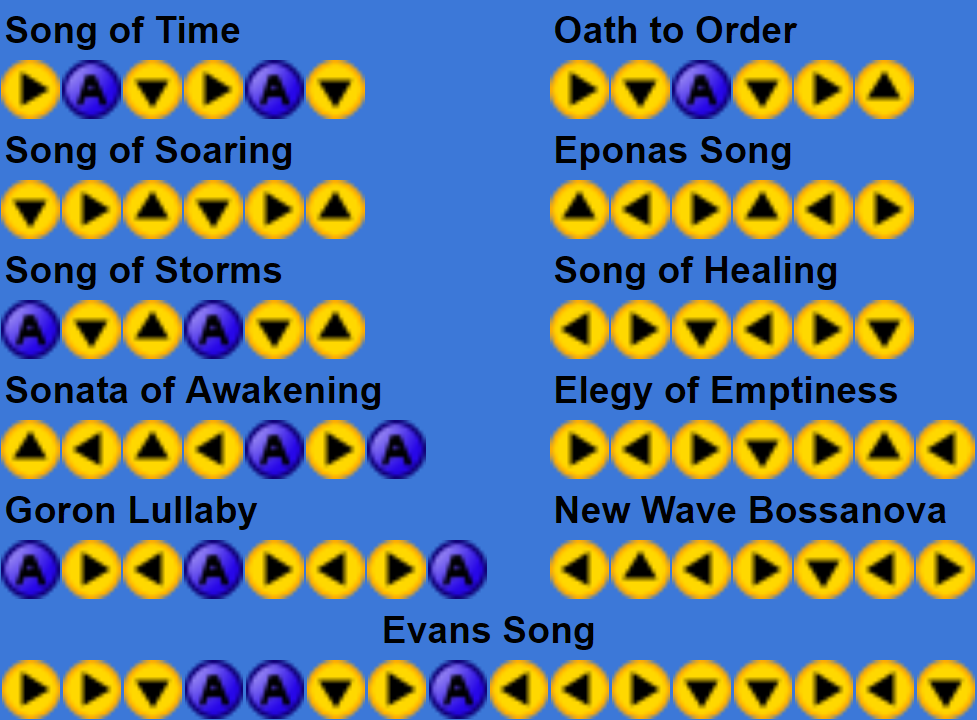
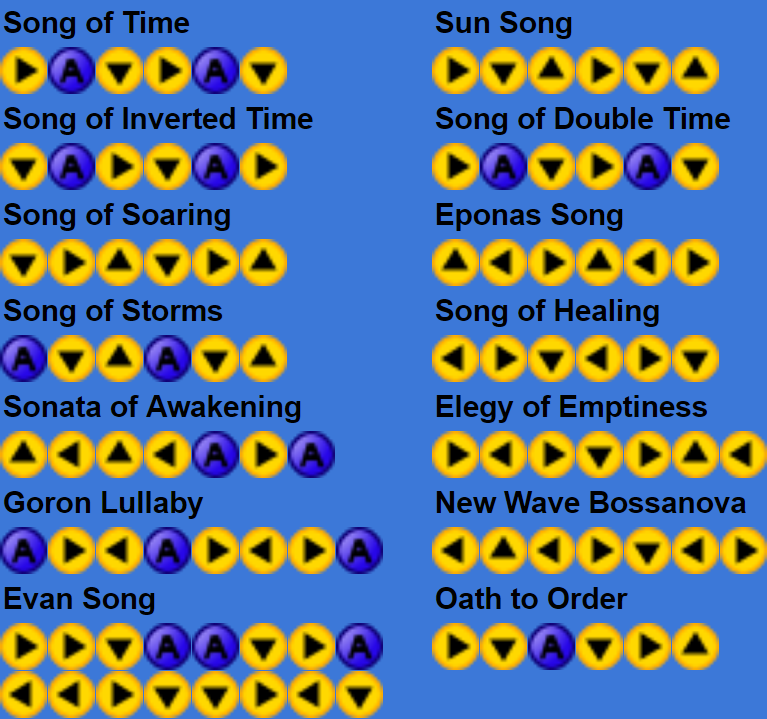
The pathfinder will now skip the pathfinding process if the destination is in the same area as the exit.
Fixed the printing of paths to properly display when song of time is being used.

Exits from majoras lair will now be ignored. There are no actual exits from majora but logic uses it to mark inaccessabel areas.

Updated the song list to include Sun Song as well as the two song of time variations.

diff --git a/Forms/PathFinder.cs b/Forms/PathFinder.cs
@@ -36,16 +36,17 @@ namespace MMR_Tracker.Forms
             if (Startindex < 0 || DestIndex < 0) { return; }
             LBPathFinder.Items.Add("Finding Path.....");
             LBPathFinder.Items.Add("Please Wait");
-            LBPathFinder.Items.Add("");
-            LBPathFinder.Items.Add("This could take up to 20");
-            LBPathFinder.Items.Add("seconds depending on how");
-            LBPathFinder.Items.Add("complete your map is and");
-            LBPathFinder.Items.Add("the speed of your PC!");
             LBPathFinder.Refresh();
 
-            await Task.Run(() => PathFinder.calculatepath(Startindex, DestIndex, partition));
+            bool DestinationAtStarting = await Task.Run(() => PathFinder.Calculatepath(Startindex, DestIndex, partition));
 
             LBPathFinder.Items.Clear();
+
+            if (DestinationAtStarting)
+            {
+                foreach (var i in Utility.SeperateStringByMeasurement(LBPathFinder, "Your destination is available from your starting area.", "")) { LBPathFinder.Items.Add(i); }
+                return;
+            }
 
             if (PathFinder.paths.Count == 0)
             {
@@ -68,14 +69,18 @@ namespace MMR_Tracker.Forms
             PrintPaths(-1, partition);
         }
 
-        public static void calculatepath(int Startindex, int DestIndex, int PathPartition)
+        public static bool Calculatepath(int Startindex, int DestIndex, int PathPartition)
         {
             var startinglocation = LogicObjects.MainTrackerInstance.Logic[Startindex];
             var destination = LogicObjects.MainTrackerInstance.Logic[DestIndex];
             var maps = FindLogicalEntranceConnections(LogicObjects.MainTrackerInstance, startinglocation);
             var Fullmap = maps[0]; //A map of all available exit from each entrance
             var ResultMap = maps[1]; //A map of all available entrances from each exit as long as the result of that entrance is known
+
+            if (Fullmap.Find(x => x.CurrentExit == startinglocation.ID && x.EntranceToTake == destination.ID) != null) { return true; }
+
             Findpath(LogicObjects.MainTrackerInstance, ResultMap, Fullmap, startinglocation.ID, destination.ID, new List<int>(), new List<int>(), new List<LogicObjects.MapPoint>(), PathPartition, true);
+            return false;
         }
 
         private void CMBStart_DropDown(object sender, EventArgs e)
@@ -157,22 +162,33 @@ namespace MMR_Tracker.Forms
         private void PrintPaths(int PathToPrint, int partition)
         {
             LBPathFinder.Items.Clear();
-            var sortedpaths = paths[partition].OrderBy(x => x.Count);
+            var sortedpaths = PathFinder.paths[partition].OrderBy(x => x.Count);
 
-            if (PathToPrint == -1 || paths[partition].ElementAtOrDefault(PathToPrint) == null)
+            if (PathToPrint == -1 || PathFinder.paths[partition].ElementAtOrDefault(PathToPrint) == null)
             {
                 int counter = 1;
                 foreach (var path in sortedpaths)
                 {
-                    LBPathFinder.Items.Add(new LogicObjects.ListItem { DisplayName = "Path: " + counter + " (" + path.Count + " Steps)", ID = counter - 1 , Identifier = partition });
+                    var ListTitle = new LogicObjects.ListItem { DisplayName = "Path: " + counter + " (" + path.Count + " Steps)", ID = counter - 1, Identifier = partition };
+                    LBPathFinder.Items.Add(ListTitle);
                     var firstStop = true;
                     foreach (var stop in path)
                     {
-                        var start = (firstStop) ? SetSOTName(LogicObjects.MainTrackerInstance, stop) : LogicObjects.MainTrackerInstance.Logic[stop.EntranceToTake].LocationName;
-                        var ListItem = new LogicObjects.ListItem { DisplayName = start + " => " + LogicObjects.MainTrackerInstance.Logic[stop.ResultingExit].ItemName, ID = counter - 1, Identifier = partition };
+                        var start = (firstStop) ? PathFinder.SetSOTName(LogicObjects.MainTrackerInstance, stop) : LogicObjects.MainTrackerInstance.Logic[stop.EntranceToTake].LocationName;
+                        var ListItem = new LogicObjects.ListItem
+                        {
+                            DisplayName = start + " => " + LogicObjects.MainTrackerInstance.Logic[stop.ResultingExit].ItemName,
+                            ID = counter - 1,
+                            Identifier = partition
+                        };
                         LBPathFinder.Items.Add(ListItem); firstStop = false;
                     }
-                    LBPathFinder.Items.Add(new LogicObjects.ListItem { DisplayName = "===============================", ID = counter - 1, Identifier = partition });
+                    LBPathFinder.Items.Add(new LogicObjects.ListItem
+                    {
+                        DisplayName = "===============================",
+                        ID = counter - 1,
+                        Identifier = partition
+                    });
                     counter++;
                 }
             }
@@ -181,21 +197,25 @@ namespace MMR_Tracker.Forms
                 var path = sortedpaths.ToArray()[PathToPrint];
                 var ListTitle = new LogicObjects.ListItem { DisplayName = "Path: " + (PathToPrint + 1) + " (" + path.Count + " Steps)", ID = -1, Identifier = partition };
                 LBPathFinder.Items.Add(ListTitle);
+                var firstStop = true;
                 foreach (var stop in path)
                 {
-                    var ThisIsStupid = new LogicObjects.ListItem
+                    var start = (firstStop) ? PathFinder.SetSOTName(LogicObjects.MainTrackerInstance, stop) : LogicObjects.MainTrackerInstance.Logic[stop.EntranceToTake].LocationName;
+                    var ListItem = new LogicObjects.ListItem
                     {
-                        DisplayName =
-                        ((LogicObjects.MainTrackerInstance.Logic[stop.EntranceToTake].DictionaryName == "EntranceSouthClockTownFromClockTowerInterior") ?
-                            "Song of Time" :
-                            LogicObjects.MainTrackerInstance.Logic[stop.EntranceToTake].LocationName
-                        ) + " => " + LogicObjects.MainTrackerInstance.Logic[stop.ResultingExit].ItemName,
+                        DisplayName = start + " => " + LogicObjects.MainTrackerInstance.Logic[stop.ResultingExit].ItemName,
                         ID = -1,
                         Identifier = partition
                     };
-                    LBPathFinder.Items.Add(ThisIsStupid);
+                    LBPathFinder.Items.Add(ListItem);
+                    firstStop = false;
                 }
-                LBPathFinder.Items.Add("===============================");
+                LBPathFinder.Items.Add(new LogicObjects.ListItem
+                {
+                    DisplayName = "===============================",
+                    ID = -1,
+                    Identifier = partition
+                });
             }
         }
 
@@ -239,6 +259,8 @@ namespace MMR_Tracker.Forms
             foreach (LogicObjects.LogicEntry entry in Instance.Logic.Where(x => x.RandomizedItem > -1 && x.IsEntrance() && x.Checked))
             {
                 var ExitToCheck = logicTemplate.Logic[entry.RandomizedItem];
+                //There are no valid exits from majoras lair. Logic uses it to make sure innaccessable exits don't lock something needed to beat the game.
+                if (ExitToCheck.DictionaryName == "EntranceMajorasLairFromTheMoon") { continue; }
                 ExitToCheck.Aquired = true;
                 LogicEditing.CalculateItems(logicTemplate);
                 foreach (var dummyEntry in logicTemplate.Logic.Where(x => EntranceConnectionValid(x, ExitToCheck, logicTemplate)))
@@ -274,45 +296,41 @@ namespace MMR_Tracker.Forms
             return (x.Available && !x.IsFake && !x.IsWarpSong() && (x.IsEntrance() || lt.Options.IncludeItemLocations) && NotSOT(lt, ExitToCheck, x));
         }
 
-        public static void Findpath(LogicObjects.TrackerInstance Instance, List<LogicObjects.MapPoint> map, List<LogicObjects.MapPoint> FullMap, int startinglocation, int destination, List<int> ExitsSeen, List<int> ExitsSeenOriginal, List<LogicObjects.MapPoint> Path, int PathPartition, bool InitialRun = false)
+        public static void Findpath(LogicObjects.TrackerInstance Instance, List<LogicObjects.MapPoint> map, List<LogicObjects.MapPoint> FullMap, int startinglocation, int destination, List<int> ExitsKnown, List<int> ExitsVisited, List<LogicObjects.MapPoint> Path, int PathPartition, bool InitialRun = false)
         {
             #region
             //map               :A map of all available entrances from each exit as long as the result of that entrance is known
             //FullMap           :A map of all available exit from each entrance
             //startinglocation  :The ID of the last exit you came from
             //destination       :The ID of the entrance you want to reach
-            //ExitsSeen         :The IDs of each entrance you have seen in the current area as well as all surrounding areas
-            //ExitsSeenOriginal :The same as exits seen but does not conatain entrance found during this execution of the function through the CheckExitValid fucntion
+            //ExitsKnown        :The IDs of each entrance we've seen from areas we've been to and areas we've scanned using the NewExitsInResultingArea function
+            //ExitsSeenOriginal :The IDs of each entrance we've seen from area we have actually been to or could have been to earlier in the path
             //Path              :A list of exits you have taken to get to your current point
             //PathPartition     :The index of the global paths variable where this path will be stored
             //InitialRun        :Is this code being run from the original source (True) or from it's self (False)
             #endregion
             if (InitialRun) { paths[PathPartition] = new List<List<LogicObjects.MapPoint>>(); }
-            //There are no available exits from majoras lair, this however is used to lock inaccesable exits
-            if (Instance.Logic[startinglocation].DictionaryName == "EntranceMajorasLairFromTheMoon") { return; }
             //Make a copy to edit and pass to the next funtion
-            var ExitsSeenCopy = JsonConvert.DeserializeObject<List<int>>(JsonConvert.SerializeObject(ExitsSeen));
-            //The path finder will use this to ignore seen entrances in areas with new entrances and seen entrances
-            var ExitsSeenOriginalCopy = JsonConvert.DeserializeObject<List<int>>(JsonConvert.SerializeObject(ExitsSeen));
+            var ExitsKnownCopy = JsonConvert.DeserializeObject<List<int>>(JsonConvert.SerializeObject(ExitsKnown));
+            var ExitsVisitedCopy = JsonConvert.DeserializeObject<List<int>>(JsonConvert.SerializeObject(ExitsKnown));
             //A list of exits available to take
             var validExits = new List<LogicObjects.MapPoint>();
 
             //If we can reach our destination from this point, add the path we took to get here to the valid paths list.
             if (FullMap.Find(x => x.CurrentExit == startinglocation && x.EntranceToTake == destination) != null) { paths[PathPartition].Add(Path); }
 
-            //For each point in our trimmed map 
+            //For each exit from our current location
             foreach (var point in map.Where(x => x.CurrentExit == startinglocation))
             {
                 #region
-                /*The ExitsSeenOriginal check ensures that the exit we are taking has not been accessable from 
-                from a previous exit we have actually been to.
-                Then Check to see if taking this exit contains exits we haven't seen before.
-                 */
+                /*Check that the exit we are taking has not been accessable from a previous exit we have actually been to or seen earlier in the path.
+                Then Check to see if taking this exit contains exits we haven't seen before.*/
                 #endregion
-                if (!ExitsSeenOriginal.Contains(point.EntranceToTake) && CheckExitValid(map, point.ResultingExit, ExitsSeenCopy))
+                if (!ExitsVisited.Contains(point.EntranceToTake) && NewExitsInResultingArea(map, point.ResultingExit, ExitsKnownCopy))
                 {
                     validExits.Add(point);
-                    ExitsSeen.Add(point.EntranceToTake);
+                    ExitsKnownCopy.Add(point.EntranceToTake);
+                    ExitsVisitedCopy.Add(point.EntranceToTake);
                 }
             }
             //Pick the first entrance in the valid exits list, rerun the function with the resulting exit as the starting location
@@ -320,15 +338,13 @@ namespace MMR_Tracker.Forms
             {
                 var UpdatedPath = JsonConvert.DeserializeObject<List<LogicObjects.MapPoint>>(JsonConvert.SerializeObject(Path));
                 UpdatedPath.Add(exit);
-                Findpath(Instance, map, FullMap, exit.ResultingExit, destination, ExitsSeenCopy, ExitsSeenOriginalCopy, UpdatedPath, PathPartition);
+                Findpath(Instance, map, FullMap, exit.ResultingExit, destination, ExitsKnownCopy, ExitsVisitedCopy, UpdatedPath, PathPartition);
             }
         }
 
-        public static bool CheckExitValid(List<LogicObjects.MapPoint> map, int startinglocation, List<int> ExitsSeen)
+        public static bool NewExitsInResultingArea(List<LogicObjects.MapPoint> map, int startinglocation, List<int> ExitsSeen)
         {
-            /* This checks all of the exits in the area we would go to if we took this exit. If we have seen all of these exits
-            Before or there is no need to take this exit.
-            */
+            // This checks all of the exits in the area we would go to if we took this exit. If we have seen all of these exits before there is no need to take this exit.
             var good = false;
             foreach (var point in map.Where(x => x.CurrentExit == startinglocation))
             {

diff --git a/Forms/MainInterface.cs b/Forms/MainInterface.cs
@@ -346,13 +346,13 @@ namespace MMR_Tracker_V2
             FormatMenuItems();
         }
 
-        private void popoutPathfinderToolStripMenuItem_Click(object sender, EventArgs e)
+        private void PopoutPathfinderToolStripMenuItem_Click(object sender, EventArgs e)
         {
             PathFinder Poputpathfinder = new PathFinder();
             Poputpathfinder.Show();
         }
 
-        //Menu strip => Info
+        //Menu strip => Info---------------------------------------------------------------------------
 
         private void InfoToolStripMenuItem_Click(object sender, EventArgs e)
         {
@@ -464,15 +464,19 @@ namespace MMR_Tracker_V2
             var Startindex = Int32.Parse(CMBStart.SelectedValue.ToString());
             var DestIndex = Int32.Parse(CMBEnd.SelectedValue.ToString());
             if (Startindex < 0 || DestIndex < 0) { return; }
-            var startinglocation = LogicObjects.MainTrackerInstance.Logic[Startindex];
-            var destination = LogicObjects.MainTrackerInstance.Logic[DestIndex];
             LBPathFinder.Items.Add("Finding Path.....");
             LBPathFinder.Items.Add("Please Wait");
             LBPathFinder.Refresh();
 
-            await Task.Run(() => PathFinder.calculatepath(Startindex, DestIndex, partition));
+            bool DestinationAtStarting = await Task.Run(() => PathFinder.Calculatepath(Startindex, DestIndex, partition));
 
             LBPathFinder.Items.Clear();
+
+            if (DestinationAtStarting)
+            {
+                foreach (var i in Utility.SeperateStringByMeasurement(LBPathFinder, "Your destination is available from your starting area.", "")) { LBPathFinder.Items.Add(i); }
+                return;
+            }
 
             if (PathFinder.paths.Count == 0)
             {
@@ -614,15 +618,26 @@ namespace MMR_Tracker_V2
                 int counter = 1;
                 foreach (var path in sortedpaths)
                 {
-                    LBPathFinder.Items.Add(new LogicObjects.ListItem { DisplayName = "Path: " + counter + " (" + path.Count + " Steps)", ID = counter - 1, Identifier = partition });
+                    var ListTitle = new LogicObjects.ListItem { DisplayName = "Path: " + counter + " (" + path.Count + " Steps)", ID = counter - 1, Identifier = partition };
+                    LBPathFinder.Items.Add(ListTitle);
                     var firstStop = true;
                     foreach (var stop in path)
                     {
                         var start = (firstStop) ? PathFinder.SetSOTName(LogicObjects.MainTrackerInstance, stop) : LogicObjects.MainTrackerInstance.Logic[stop.EntranceToTake].LocationName;
-                        var ListItem = new LogicObjects.ListItem { DisplayName = start + " => " + LogicObjects.MainTrackerInstance.Logic[stop.ResultingExit].ItemName, ID = counter - 1, Identifier = partition };
+                        var ListItem = new LogicObjects.ListItem
+                        {
+                            DisplayName = start + " => " + LogicObjects.MainTrackerInstance.Logic[stop.ResultingExit].ItemName,
+                            ID = counter - 1,
+                            Identifier = partition
+                        };
                         LBPathFinder.Items.Add(ListItem); firstStop = false;
                     }
-                    LBPathFinder.Items.Add(new LogicObjects.ListItem { DisplayName = "===============================", ID = counter - 1, Identifier = partition });
+                    LBPathFinder.Items.Add(new LogicObjects.ListItem
+                    {
+                        DisplayName = "===============================",
+                        ID = counter - 1,
+                        Identifier = partition
+                    });
                     counter++;
                 }
             }
@@ -631,21 +646,25 @@ namespace MMR_Tracker_V2
                 var path = sortedpaths.ToArray()[PathToPrint];
                 var ListTitle = new LogicObjects.ListItem { DisplayName = "Path: " + (PathToPrint + 1) + " (" + path.Count + " Steps)", ID = -1, Identifier = partition };
                 LBPathFinder.Items.Add(ListTitle);
+                var firstStop = true;
                 foreach (var stop in path)
                 {
-                    var ThisIsStupid = new LogicObjects.ListItem
+                    var start = (firstStop) ? PathFinder.SetSOTName(LogicObjects.MainTrackerInstance, stop) : LogicObjects.MainTrackerInstance.Logic[stop.EntranceToTake].LocationName;
+                    var ListItem = new LogicObjects.ListItem
                     {
-                        DisplayName =
-                        ((LogicObjects.MainTrackerInstance.Logic[stop.EntranceToTake].DictionaryName == "EntranceSouthClockTownFromClockTowerInterior") ?
-                            "Song of Time" :
-                            LogicObjects.MainTrackerInstance.Logic[stop.EntranceToTake].LocationName
-                        ) + " => " + LogicObjects.MainTrackerInstance.Logic[stop.ResultingExit].ItemName,
+                        DisplayName = start + " => " + LogicObjects.MainTrackerInstance.Logic[stop.ResultingExit].ItemName,
                         ID = -1,
                         Identifier = partition
                     };
-                    LBPathFinder.Items.Add(ThisIsStupid);
+                    LBPathFinder.Items.Add(ListItem);
+                    firstStop = false;
                 }
-                LBPathFinder.Items.Add("===============================");
+                LBPathFinder.Items.Add(new LogicObjects.ListItem
+                {
+                    DisplayName = "===============================",
+                    ID = -1,
+                    Identifier = partition
+                });
             }
         }
 

diff --git a/Forms/MainInterface.Designer.cs b/Forms/MainInterface.Designer.cs
@@ -676,7 +676,7 @@
             this.popoutPathfinderToolStripMenuItem.Name = "popoutPathfinderToolStripMenuItem";
             this.popoutPathfinderToolStripMenuItem.Size = new System.Drawing.Size(189, 22);
             this.popoutPathfinderToolStripMenuItem.Text = "Popout Pathfinder";
-            this.popoutPathfinderToolStripMenuItem.Click += new System.EventHandler(this.popoutPathfinderToolStripMenuItem_Click);
+            this.popoutPathfinderToolStripMenuItem.Click += new System.EventHandler(this.PopoutPathfinderToolStripMenuItem_Click);
             // 
             // FRMTracker
             // 
